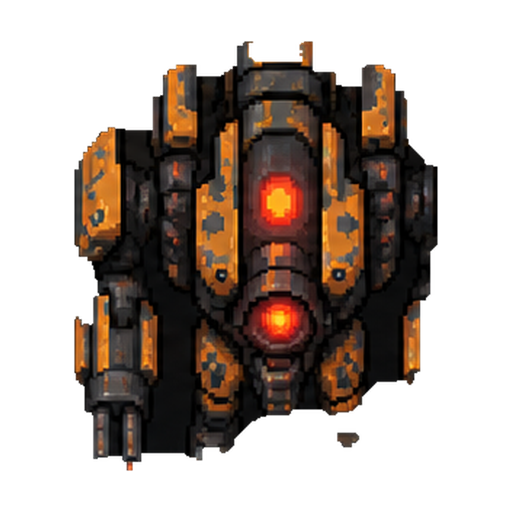
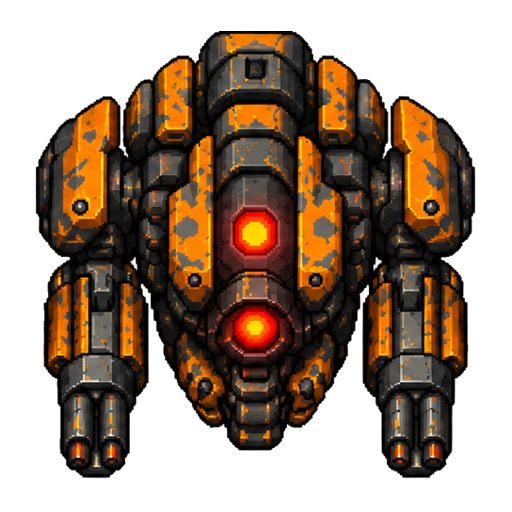
ASHFALL 0.9.3 — Alpha V7.3

diff --git a/RAPPORT_V73_PORTES_SEUILS.md b/RAPPORT_V73_PORTES_SEUILS.md
@@ -1,0 +1,15 @@
+# ASHFALL V7.3 — Seuils et cadrage des portes
+
+Base : V7.2 avec les cinq sprites officiels, sans retoucher les 12 illustrations ni les 12 masques PNG.
+
+## Changements dans fixedworld.js
+- Déclenchement TP ramené de 78 à **44 unités** du bord, juste avant le mur physique (rayon 12 et marge 22).
+- Détection transversale centrée sur l'ouverture, demi-largeur 29 au maximum (avant plage porte +10 = largeur ~87/93).
+- Position d'apparition à **88 unités** du bord de la nouvelle salle, au lieu de 112 : arrivée plus proche de la porte, mais pas dans son déclencheur.
+- Garde de transition **0,32 s**, puis réarmement hors zone de porte, pour supprimer les enchaînements involontaires.
+- Le grand rectangle cyan/rouge opaque sur chaque porte est remplacé par un fin trait coloré de 3 px au seuil intérieur, calé sur le centre de la porte de la scène.
+- Liaisons et coordonnées des 22 seuils conservées et croisées avec les illustrations originales; en salle 05, la sortie sud est visuellement décalée à gauche (x=180), et la nord au centre (x=360) : c'est bien la géométrie illustrée.
+
+## Limites
+- Vérifications programmatiques et prévisualisations des 22 seuils, sans test physique iPhone.
+- Les seuils visuels sont cohérents mais le confort ressenti et le rendu en jeu restent à valider.

diff --git a/RAPPORT_V72_SPRITES_OFFICIELS.md b/RAPPORT_V72_SPRITES_OFFICIELS.md
@@ -1,0 +1,5 @@
+# ASHFALL V7.2 — Bestiaire officiel fourni par le joueur
+
+Base : V7.1. Les cinq fichiers `assets/bestiaire2/*.png` sont remplacés par des découpes de la planche fournie, avec alpha réel et cadrage uniforme 512×512. `fixedworld.js` modifié seulement pour l'invalidation du cache des sprites. Tous les autres fichiers, dont les cartes et collisions, sont conservés.
+
+**Attention :** le damier de fond est retiré par segmentation d'image. Détourage à contrôler à taille réelle sur iPhone; pas de test manuel iPhone effectué. La rotation 360° existante est conservée.
